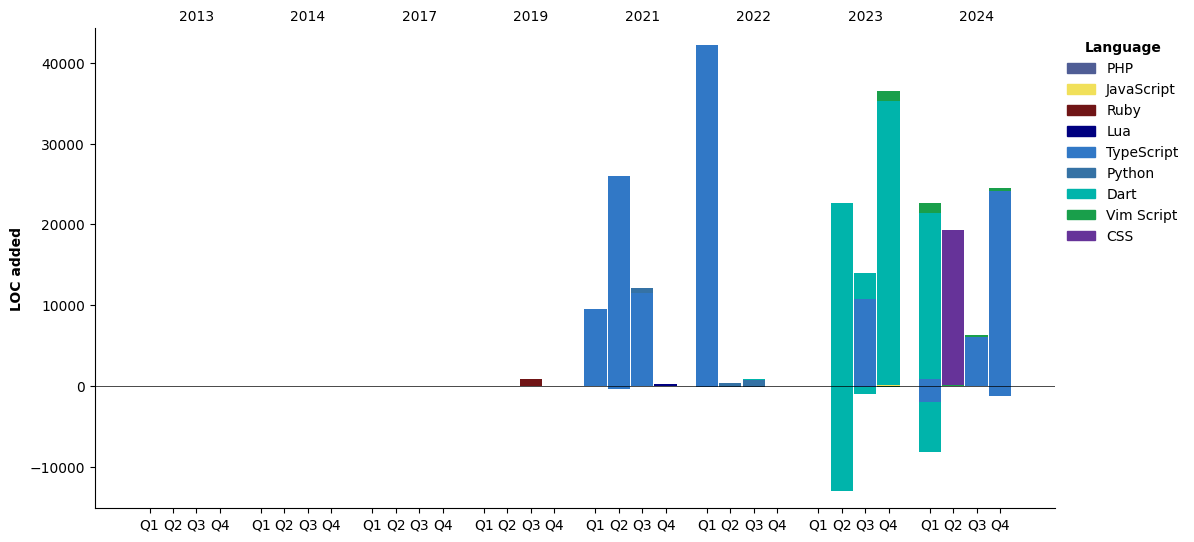
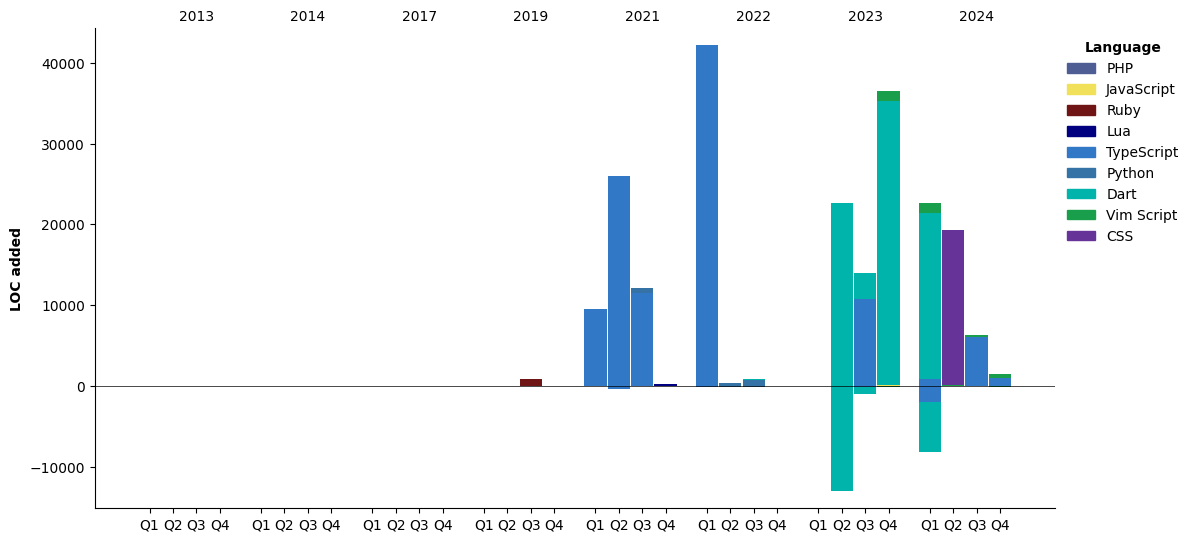
Updated with Dev Metrics

Changed region(s): [[0.8057, 0.3542, 0.8677, 0.738]]

diff --git a/README.md b/README.md
@@ -68,53 +68,13 @@
 ![contribution animation](images/github-snake-dark.svg "contribution animation")
 
 <!--START_SECTION:waka-->
-![Code Time](http://img.shields.io/badge/Code%20Time-1%2C564%20hrs%2034%20mins-blue)
-
-**I'm an Early 🐤** 
-
-```text
-🌞 Morning                30397 commits       ████████████████████████░   96.16 % 
-🌆 Daytime                463 commits         ░░░░░░░░░░░░░░░░░░░░░░░░░   01.46 % 
-🌃 Evening                744 commits         █░░░░░░░░░░░░░░░░░░░░░░░░   02.35 % 
-🌙 Night                  8 commits           ░░░░░░░░░░░░░░░░░░░░░░░░░   00.03 % 
-```
-📅 **I'm Most Productive on Saturday** 
-
-```text
-Monday                   4268 commits        ███░░░░░░░░░░░░░░░░░░░░░░   13.50 % 
-Tuesday                  4361 commits        ███░░░░░░░░░░░░░░░░░░░░░░   13.80 % 
-Wednesday                4103 commits        ███░░░░░░░░░░░░░░░░░░░░░░   12.98 % 
-Thursday                 4362 commits        ███░░░░░░░░░░░░░░░░░░░░░░   13.80 % 
-Friday                   3564 commits        ███░░░░░░░░░░░░░░░░░░░░░░   11.27 % 
-Saturday                 6390 commits        █████░░░░░░░░░░░░░░░░░░░░   20.21 % 
-Sunday                   4564 commits        ████░░░░░░░░░░░░░░░░░░░░░   14.44 % 
-```
-
-
-📊 **This Week I Spent My Time On** 
-
-```text
-🕑 Time Zone: Asia/Tokyo
-
-💬 Programming Languages: 
-TypeScript               14 hrs 3 mins       ███████████████░░░░░░░░░░   58.30 % 
-Python                   7 hrs 39 mins       ████████░░░░░░░░░░░░░░░░░   31.74 % 
-HTML                     51 mins             █░░░░░░░░░░░░░░░░░░░░░░░░   03.55 % 
-Markdown                 45 mins             █░░░░░░░░░░░░░░░░░░░░░░░░   03.17 % 
-CSV                      17 mins             ░░░░░░░░░░░░░░░░░░░░░░░░░   01.19 % 
-
-🔥 Editors: 
-VS Code                  24 hrs 7 mins       █████████████████████████   100.00 % 
-
-💻 Operating System: 
-Mac                      24 hrs 7 mins       █████████████████████████   100.00 % 
-```
+![Code Time](http://img.shields.io/badge/Code%20Time-1%2C571%20hrs%2040%20mins-blue)
 
 **Timeline**
 
 ![Lines of Code chart](https://raw.githubusercontent.com/tabio/tabio/main/assets/bar_graph.png)
 
 
- Last Updated on 23/12/2024 18:47:50 UTC
+ Last Updated on 25/12/2024 18:46:26 UTC
 <!--END_SECTION:waka-->
 
